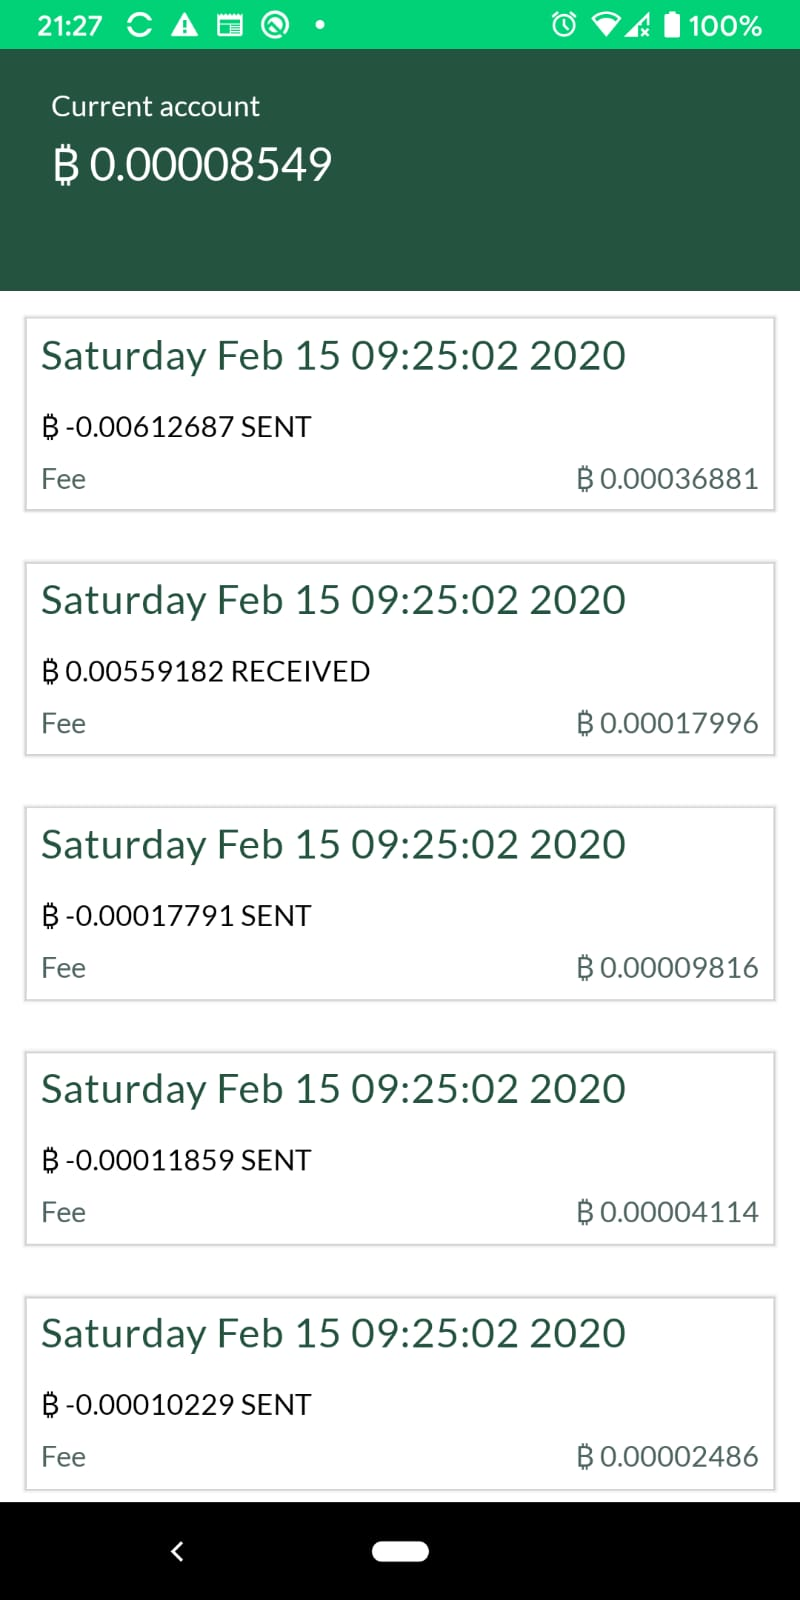
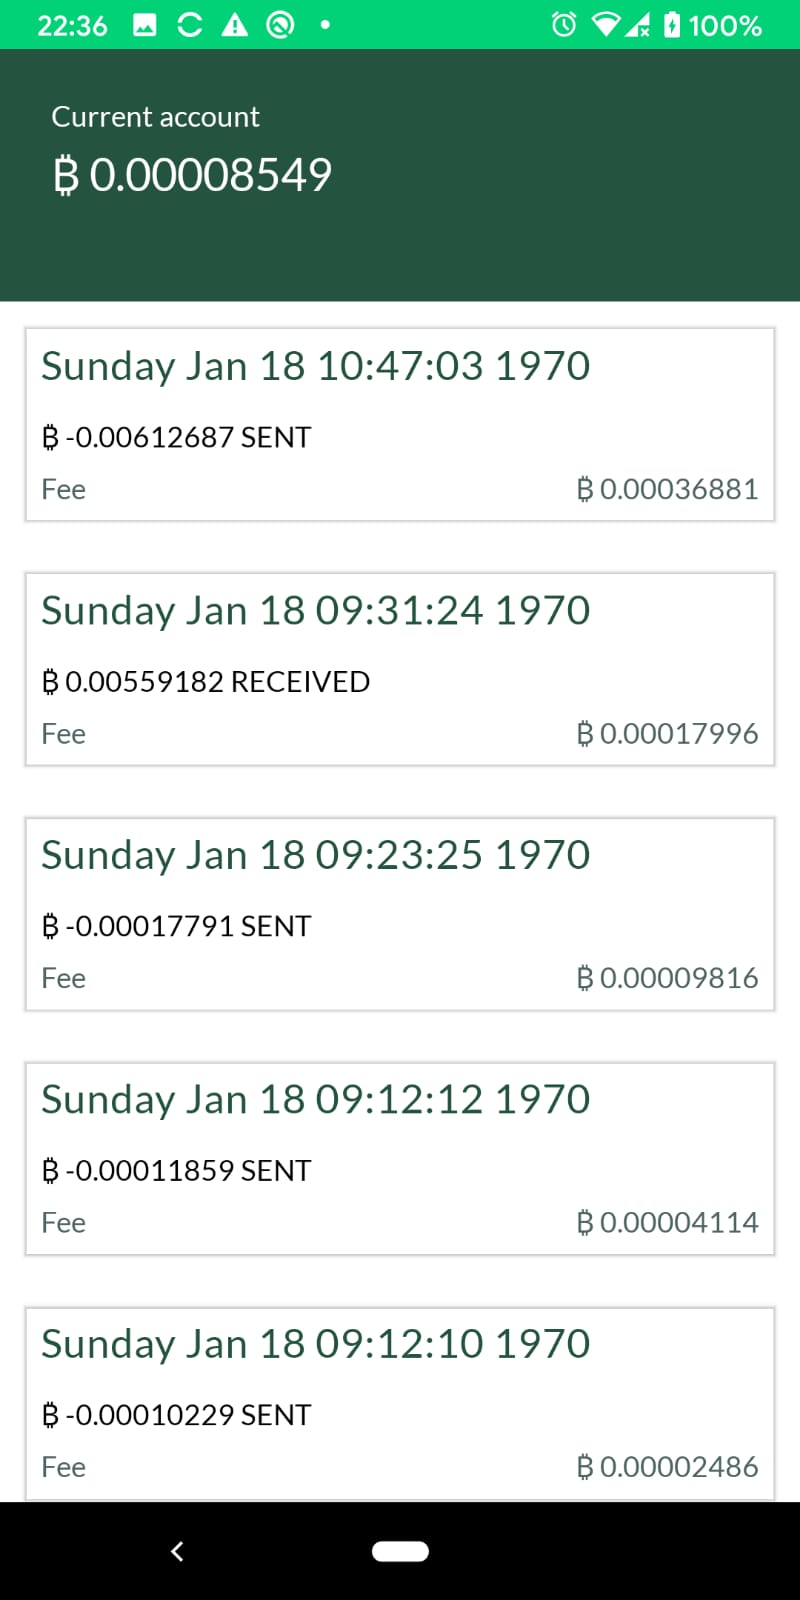
unit

diff --git a/app/src/androidTest/java/com/demo/wallet/db/WalletDaoTest.kt b/app/src/androidTest/java/com/demo/wallet/db/WalletDaoTest.kt
@@ -1,0 +1,67 @@
+package com.demo.wallet.db
+
+import androidx.arch.core.executor.testing.InstantTaskExecutorRule
+import androidx.room.Room
+import androidx.test.platform.app.InstrumentationRegistry
+import com.demo.wallet.TestUtils.DEFAULT_TXS_HASH
+import com.demo.wallet.TestUtils.transactionDefault
+import com.demo.wallet.data.dto.txs
+import io.reactivex.functions.Predicate
+import junit.framework.Assert.assertEquals
+import org.junit.After
+import org.junit.Before
+import org.junit.Rule
+import org.junit.Test
+
+class WalletDaoTest {
+
+    private lateinit var db: AppDatabase
+    private lateinit var dao: WalletDao
+
+    @Rule
+    @JvmField
+    var instantTaskExecutorRule = InstantTaskExecutorRule()
+
+    @Before
+    @Throws(Exception::class)
+    fun initDb() {
+        val context = InstrumentationRegistry.getInstrumentation().targetContext
+        db = Room.inMemoryDatabaseBuilder(context, AppDatabase::class.java)
+            // allowing main thread queries, just for testing
+            .allowMainThreadQueries()
+            .build()
+        dao = db.walletDao()
+    }
+
+    @After
+    @Throws(Exception::class)
+    fun closeDb() {
+        db.close()
+    }
+
+    @Test
+    fun insertAndGetTransaction() {
+        // Given that we have a transaction in the data source
+        val transactions: List<txs> = listOf(transactionDefault)
+
+        db.walletDao().insertAllTransactions(transactions)
+            .test()
+            .assertComplete()
+
+
+        // When subscribing to the emissions of transactions
+        db.walletDao()
+            .getAllTransactions()
+            .test()
+            // assertValue asserts that there was only one emission
+            .assertValue(object: Predicate<List<txs>> {
+                override fun test(t: List<txs>): Boolean {
+                    assertEquals(1, t.size)
+                    val transaction = t[0]
+
+                    return transaction.hash.equals(DEFAULT_TXS_HASH)
+                }
+
+            })
+    }
+}

diff --git a/app/src/androidTest/java/com/demo/wallet/framework/Matchers.kt b/app/src/androidTest/java/com/demo/wallet/framework/Matchers.kt
@@ -1,0 +1,50 @@
+package com.demo.wallet.framework
+
+import android.app.Activity
+import androidx.annotation.IdRes
+import androidx.annotation.StringRes
+import androidx.test.espresso.Espresso
+import androidx.test.espresso.assertion.ViewAssertions
+import androidx.test.espresso.intent.Intents
+import androidx.test.espresso.intent.matcher.IntentMatchers
+import androidx.test.espresso.matcher.ViewMatchers
+
+
+/**
+ * Pull out Matchers to separate class in Espresso tests.
+ */
+class Matchers {
+    fun <T : Activity> nextOpenActivityIs(clazz: Class<T>) {
+        Intents.intended(IntentMatchers.hasComponent(clazz.name))
+    }
+
+    fun viewIsVisible(@IdRes viewId: Int) {
+        Espresso.onView(ViewMatchers.withId(viewId))
+            .check(ViewAssertions.matches(ViewMatchers.withEffectiveVisibility(ViewMatchers.Visibility.VISIBLE)))
+    }
+
+    fun viewIsGone(@IdRes viewId: Int) {
+        Espresso.onView(ViewMatchers.withId(viewId))
+            .check(ViewAssertions.matches(ViewMatchers.withEffectiveVisibility(ViewMatchers.Visibility.GONE)))
+    }
+
+    fun viewIsInvisible(@IdRes viewId: Int) {
+        Espresso.onView(ViewMatchers.withId(viewId))
+            .check(ViewAssertions.matches(ViewMatchers.withEffectiveVisibility(ViewMatchers.Visibility.INVISIBLE)))
+    }
+
+    fun viewIsDisplayed(@IdRes viewId: Int) {
+        Espresso.onView(ViewMatchers.withId(viewId))
+            .check(ViewAssertions.matches(ViewMatchers.isDisplayed()))
+    }
+
+    fun viewIsVisibleAndContainsText(@StringRes stringResource: Int) {
+        Espresso.onView(ViewMatchers.withText(stringResource))
+            .check(ViewAssertions.matches(ViewMatchers.withEffectiveVisibility(ViewMatchers.Visibility.VISIBLE)))
+    }
+
+    fun viewContainsText(@IdRes viewId: Int, @StringRes stringResource: Int) {
+        Espresso.onView(ViewMatchers.withId(viewId))
+            .check(ViewAssertions.matches(ViewMatchers.withText(stringResource)))
+    }
+}

diff --git a/app/src/test/java/com/demo/wallet/util/FormatterBTCTest.kt b/app/src/test/java/com/demo/wallet/util/FormatterBTCTest.kt
@@ -1,0 +1,49 @@
+package com.demo.wallet.util
+
+import com.demo.wallet.ui.utils.longToBTC
+import com.demo.wallet.ui.utils.longToBTCWithStatus
+import junit.framework.Assert.assertEquals
+import org.junit.After
+import org.junit.Before
+import org.junit.Test
+
+class FormatterBTCTest {
+
+    private val btc:Long = 100000
+    private val btcSent: Long = -98888
+
+    @Before
+    fun setUp() {
+    }
+
+    @After
+    fun tearDown() {
+    }
+
+    @Test
+    fun test_format()
+    {
+        val formatted = longToBTC(btc)
+        assertEquals("\u20BF 0.00100000", formatted)
+    }
+
+    @Test
+    fun test_formatWithStatusReceived()
+    {
+        val formatted = longToBTCWithStatus(btc)
+        assertEquals("\u20BF 0.00100000 RECEIVED", formatted)
+    }
+
+    @Test
+    fun test_formatWithStatusSent()
+    {
+        val formatted = longToBTCWithStatus(btcSent)
+        assertEquals("\u20BF -0.00098888 SENT", formatted)
+    }
+
+    @Test
+    fun test_formatInvalid() {
+        val formatted = longToBTC(0)
+        assertEquals("\u20BF 0.00000000", formatted)
+    }
+}

diff --git a/app/src/test/java/com/demo/wallet/dto/TransactionTest.kt b/app/src/test/java/com/demo/wallet/dto/TransactionTest.kt
@@ -1,0 +1,38 @@
+package com.demo.wallet.dto
+
+import com.demo.wallet.TestUtils.DEFAULT_TXS_DATE
+import com.demo.wallet.TestUtils.DEFAULT_TXS_FEE
+import com.demo.wallet.TestUtils.DEFAULT_TXS_HASH
+import com.demo.wallet.TestUtils.DEFAULT_TXS_RES
+import com.demo.wallet.TestUtils.transactionDefault
+import com.demo.wallet.data.dto.txs
+import org.junit.After
+import org.junit.Assert
+import org.junit.Before
+import org.junit.Test
+
+class TransactionTest {
+
+    private lateinit var txs: txs
+
+    @Before
+    fun setUp() {
+        txs = transactionDefault
+    }
+
+    @After
+    fun tearDown() {}
+
+    @Test
+    fun test_default_values() {
+        Assert.assertEquals(DEFAULT_TXS_HASH, txs.hash)
+        Assert.assertEquals(DEFAULT_TXS_FEE, txs.fee)
+        Assert.assertEquals(DEFAULT_TXS_RES, txs.result)
+        Assert.assertEquals(DEFAULT_TXS_DATE, txs.time)
+    }
+
+    @Test
+    fun test_toString() {
+        Assert.assertNotNull(txs.toString())
+    }
+}

diff --git a/app/src/test/java/com/demo/wallet/util/LiveDataTestUtil.kt b/app/src/test/java/com/demo/wallet/util/LiveDataTestUtil.kt
@@ -1,0 +1,34 @@
+package com.demo.wallet.util
+
+import androidx.lifecycle.LiveData
+import androidx.lifecycle.Observer
+import java.util.concurrent.CountDownLatch
+import java.util.concurrent.TimeUnit
+import java.util.concurrent.TimeoutException
+
+/* Copyright 2019 Google LLC.
+   SPDX-License-Identifier: Apache-2.0 */
+fun <T> LiveData<T>.getOrAwaitValue(
+    time: Long = 2,
+    timeUnit: TimeUnit = TimeUnit.SECONDS
+): T {
+    var data: T? = null
+    val latch = CountDownLatch(1)
+    val observer = object : Observer<T> {
+        override fun onChanged(o: T?) {
+            data = o
+            latch.countDown()
+            this@getOrAwaitValue.removeObserver(this)
+        }
+    }
+
+    this.observeForever(observer)
+
+    // Don't wait indefinitely if the LiveData is not set.
+    if (!latch.await(time, timeUnit)) {
+        throw TimeoutException("LiveData value was never set.")
+    }
+
+    @Suppress("UNCHECKED_CAST")
+    return data as T
+}

diff --git a/app/src/main/java/com/demo/wallet/ui/utils/FormatterDate.kt b/app/src/main/java/com/demo/wallet/ui/utils/FormatterDate.kt
@@ -1,17 +1,11 @@
 package com.demo.wallet.ui.utils
 
-import java.time.Instant
-import java.time.ZoneOffset
-import java.time.format.DateTimeFormatter
+import java.text.SimpleDateFormat
 import java.util.*
 
 fun formatDate(date: Date): String? {
 
-    val f = DateTimeFormatter
-        .ofPattern("EEEE MMM dd hh:mm:ss yyyy")
-        .withZone(ZoneOffset.UTC)
-        .format(Instant.now())
+    val sdf = SimpleDateFormat("EEEE MMM dd hh:mm:ss yyyy", Locale.US)
 
-
-    return f.format(date)
+   return  sdf.format(date)
 }

diff --git a/app/src/sharedTest/java/com/demo/wallet/TestUtils.kt b/app/src/sharedTest/java/com/demo/wallet/TestUtils.kt
@@ -5,10 +5,10 @@ import com.demo.wallet.data.dto.txs
 
 object TestUtils {
 
-    const val DEFAULT_TXS_HASH = 1
-    const val DEFAULT_TXS_DATE =  "1.01.2020"
-    const val DEFAULT_TXS_FEE = 6.0
-    const val DEFAULT_TXS_RES = "111"
+    const val DEFAULT_TXS_HASH = "123abc"
+    const val DEFAULT_TXS_DATE: Long =  908000
+    const val DEFAULT_TXS_FEE: Long = 600
+    const val DEFAULT_TXS_RES: Long = 908000
 
     val transactionDefault = txs(DEFAULT_TXS_HASH, DEFAULT_TXS_RES, DEFAULT_TXS_DATE, DEFAULT_TXS_FEE)
 }

diff --git a/app/src/androidTest/java/com/demo/wallet/ui/views/WalletActivityTest.kt b/app/src/androidTest/java/com/demo/wallet/ui/views/WalletActivityTest.kt
@@ -1,0 +1,22 @@
+package com.demo.wallet.ui.views
+
+
+import androidx.test.filters.LargeTest
+import androidx.test.rule.ActivityTestRule
+import androidx.test.runner.AndroidJUnit4
+import org.junit.Rule
+import org.junit.Test
+import org.junit.runner.RunWith
+
+@LargeTest
+@RunWith(AndroidJUnit4::class)
+class WalletActivityTest {
+
+    @Rule
+    @JvmField
+    var mActivityTestRule = ActivityTestRule(WalletActivity::class.java)
+
+    @Test
+    fun walletActivityTest() {
+    }
+}

diff --git a/app/src/main/java/com/demo/wallet/ui/utils/FormatterBTC.kt b/app/src/main/java/com/demo/wallet/ui/utils/FormatterBTC.kt
@@ -20,9 +20,9 @@ fun longToBTCWithStatus(balance: Long?): String {
         val btc: Double = it /  SATOSHI_EXCHANGE_BTC
 
         return if (balance > 0)
-            "\u20BF " + String.format("%.8f".format(btc)) + " RECEIVED "
+            "\u20BF " + String.format("%.8f".format(btc)) + " RECEIVED"
         else
-            "\u20BF " + String.format("%.8f".format(btc)) + " SENT "
+            "\u20BF " + String.format("%.8f".format(btc)) + " SENT"
     }
 
     return ""

diff --git a/app/src/androidTest/java/com/demo/wallet/framework/Events.kt b/app/src/androidTest/java/com/demo/wallet/framework/Events.kt
@@ -1,0 +1,15 @@
+package com.demo.wallet.framework
+
+import androidx.annotation.IdRes
+import androidx.test.espresso.Espresso
+import androidx.test.espresso.action.ViewActions
+import androidx.test.espresso.matcher.ViewMatchers
+
+/**
+ * Pull out events to separate class in Espresso tests.
+ */
+class Events {
+    fun clickOnView(@IdRes viewId: Int) {
+        Espresso.onView(ViewMatchers.withId(viewId)).perform(ViewActions.click())
+    }
+}

diff --git a/app/src/main/java/com/demo/wallet/db/WalletDao.kt b/app/src/main/java/com/demo/wallet/db/WalletDao.kt
@@ -15,7 +15,7 @@ import io.reactivex.Flowable
 @Dao
 interface WalletDao {
 
-    @Query("SELECT * FROM txs ORDER BY time")
+    @Query("SELECT * FROM txs")
     fun getAllTransactions(): Flowable<List<txs>>
 
 

diff --git a/app/src/main/java/com/demo/wallet/api/WalletAPI.kt b/app/src/main/java/com/demo/wallet/api/WalletAPI.kt
@@ -9,7 +9,7 @@ import retrofit2.http.GET
 
 interface WalletAPI {
 
-    @GET("multiaddr?&n=5")
+    @GET("multiaddr?&n=10")
     fun getAllTransactions(): Deferred<Response<TransactionResponse>>
 
 }
